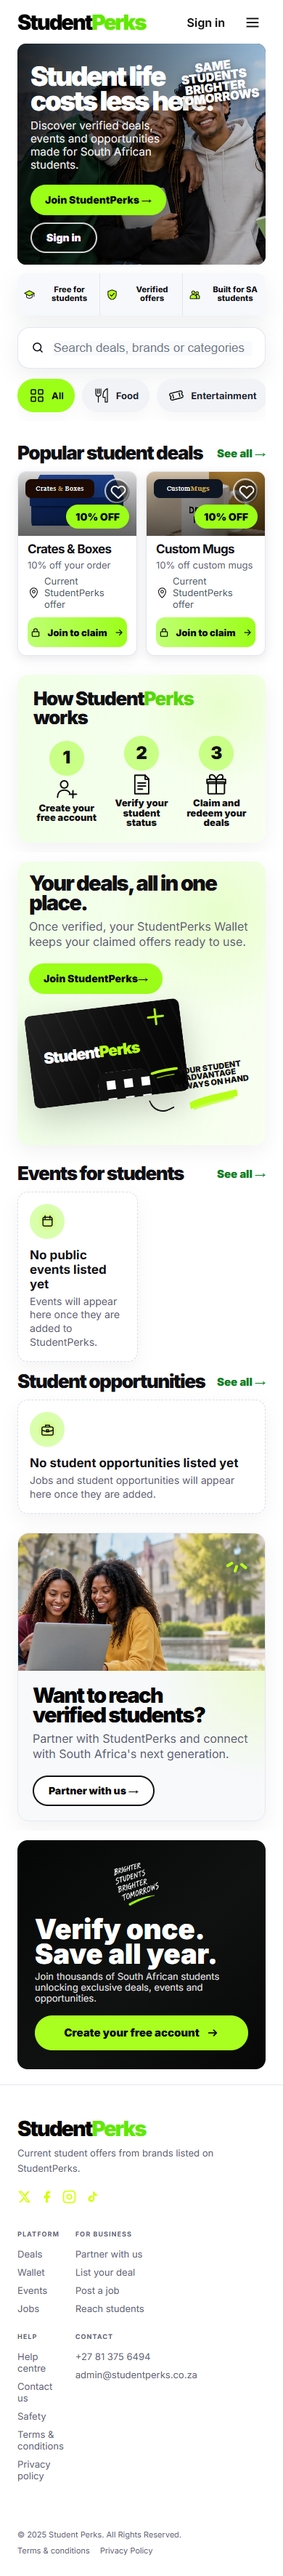
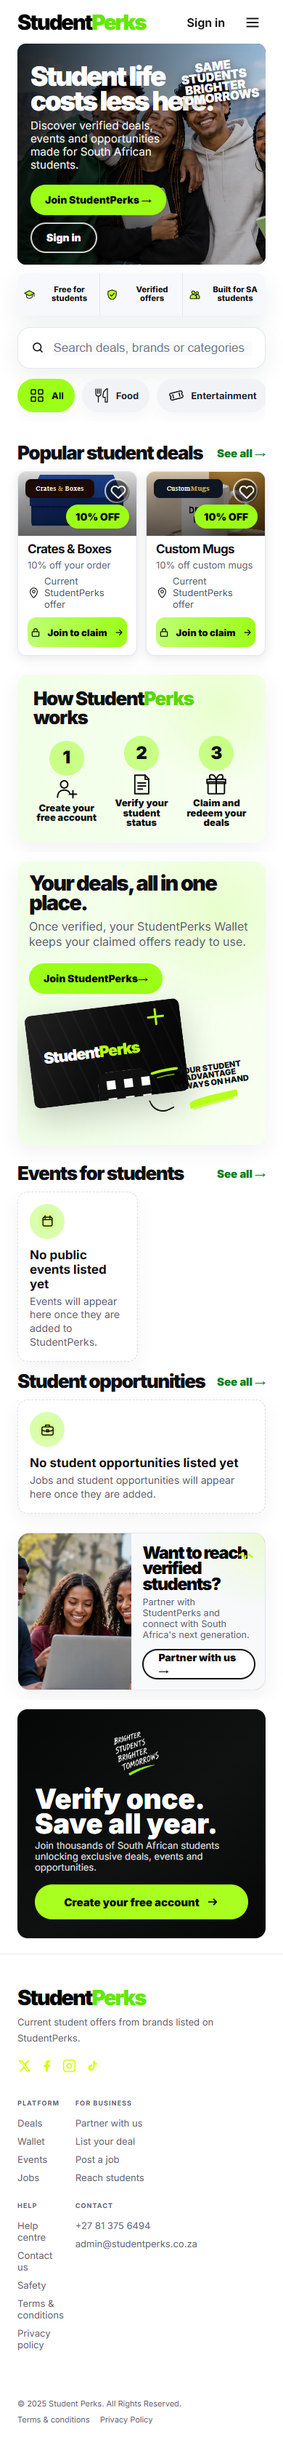
Refine business CTA layout

diff --git a/index.html b/index.html
@@ -2759,6 +2759,7 @@ body.public-redesign #business .business-photo__label {
 }
 
 body.public-redesign #business .business-copy {
+  position: relative;
   display: flex;
   flex-direction: column;
   justify-content: center;
@@ -2766,6 +2767,16 @@ body.public-redesign #business .business-copy {
   background:
     radial-gradient(circle at 100% 0%, rgba(183,255,25,.18), transparent 38%),
     #f7f9fb;
+}
+
+body.public-redesign #business .business-copy::after {
+  content: '';
+  position: absolute;
+  right: 22px;
+  top: 22px;
+  width: 34px;
+  height: 34px;
+  background: url('assets/brand/lime-rays.svg') center/contain no-repeat;
 }
 
 body.public-redesign #business .business-copy h2 {
@@ -2789,16 +2800,47 @@ body.public-redesign #business .business-copy .mock-btn {
 
 @media(max-width:700px){
   body.public-redesign #business .business-promo {
-    grid-template-columns: 1fr;
+    grid-template-columns: minmax(0, .4fr) minmax(0, .6fr);
+    min-height: 176px;
   }
 
   body.public-redesign #business .business-photo {
-    min-height: 142px;
+    min-height: 176px;
     border-radius: 0;
+    background-position: 39% center !important;
   }
 
   body.public-redesign #business .business-copy {
-    padding: 20px;
+    min-height: 176px;
+    padding: 17px 14px 15px 16px;
+  }
+
+  body.public-redesign #business .business-copy::after {
+    right: 12px;
+    top: auto;
+    bottom: 12px;
+    width: 24px;
+    height: 24px;
+  }
+
+  body.public-redesign #business .business-copy h2 {
+    max-width: 190px;
+    margin-bottom: 6px;
+    font-size: clamp(21px, 6vw, 26px);
+    line-height: .92;
+  }
+
+  body.public-redesign #business .business-copy p {
+    max-width: 190px;
+    margin-bottom: 12px;
+    font-size: clamp(12px, 3.25vw, 14px);
+    line-height: 1.2;
+  }
+
+  body.public-redesign #business .business-copy .mock-btn {
+    min-height: 35px;
+    padding: 0 13px;
+    font-size: 12px;
   }
 }
 
